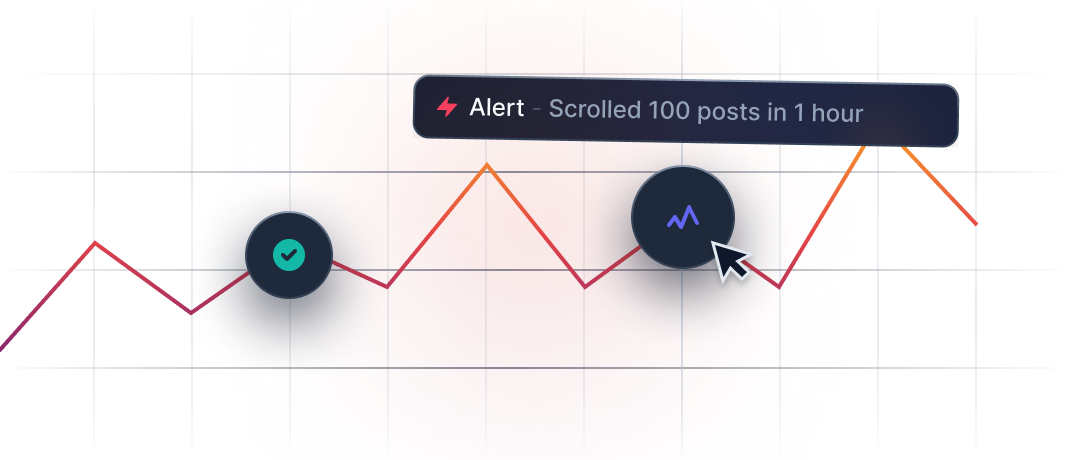
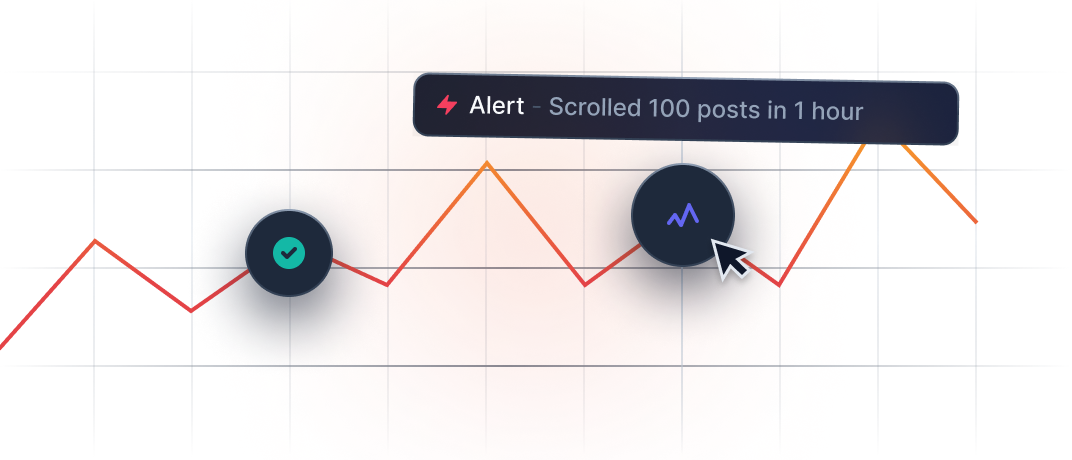
Orange Preview

diff --git a/src/components/Highlighter.tsx b/src/components/Highlighter.tsx
@@ -83,12 +83,12 @@ export function HighlighterItem({
     children,
     className = ''
 }: HighlighterItemProps) {
-    return <div className={`relative h-full bg-slate-900 rounded-3xl p-px before:absolute before:w-96 before:h-96 before:-left-48 before:-top-48 before:bg-slate-500 before:rounded-full before:opacity-0 before:pointer-events-none before:transition-opacity before:duration-500 before:translate-x-[var(--mouse-x)] before:translate-y-[var(--mouse-y)] before:hover:opacity-20 before:z-30 before:blur-[100px] after:absolute after:inset-0 after:rounded-[inherit] after:opacity-0 after:transition-opacity after:duration-500 after:[background:_radial-gradient(250px_circle_at_var(--mouse-x)_var(--mouse-y),theme(colors.primary-purple),theme(colors.primary-red),theme(colors.primary-yellow),transparent)] after:group-hover:opacity-100 after:z-10 overflow-hidden ${className}`}>{children}</div>
+    return <div className={`relative h-full bg-slate-900 rounded-3xl p-px before:absolute before:w-96 before:h-96 before:-left-48 before:-top-48 before:bg-slate-500 before:rounded-full before:opacity-0 before:pointer-events-none before:transition-opacity before:duration-500 before:translate-x-[var(--mouse-x)] before:translate-y-[var(--mouse-y)] before:hover:opacity-20 before:z-30 before:blur-[100px] after:absolute after:inset-0 after:rounded-[inherit] after:opacity-0 after:transition-opacity after:duration-500 after:[background:_radial-gradient(250px_circle_at_var(--mouse-x)_var(--mouse-y),theme(colors.primary-red),theme(colors.primary-yellow),transparent)] after:group-hover:opacity-100 after:z-10 overflow-hidden ${className}`}>{children}</div>
 }
 
 export function HighlighterItem02({
     children,
     className = ''
 }: HighlighterItemProps) {
-    return <div className={`relative h-full bg-slate-800 rounded-3xl p-px -m-px before:absolute before:w-64 before:h-64 before:-left-32 before:-top-32 before:bg-slate-500 before:rounded-full before:opacity-0 before:pointer-events-none before:transition-opacity before:duration-500 before:translate-x-[var(--mouse-x)] before:translate-y-[var(--mouse-y)] before:hover:opacity-30 before:z-30 before:blur-[64px] after:absolute after:inset-0 after:rounded-[inherit] after:opacity-0 after:transition-opacity after:duration-500 after:[background:_radial-gradient(250px_circle_at_var(--mouse-x)_var(--mouse-y),theme(colors.primary-purple),theme(colors.primary-red),theme(colors.primary-yellow),transparent)] after:group-hover:opacity-100 after:z-10 overflow-hidden ${className}`}>{children}</div>
+    return <div className={`relative h-full bg-slate-800 rounded-3xl p-px -m-px before:absolute before:w-64 before:h-64 before:-left-32 before:-top-32 before:bg-slate-500 before:rounded-full before:opacity-0 before:pointer-events-none before:transition-opacity before:duration-500 before:translate-x-[var(--mouse-x)] before:translate-y-[var(--mouse-y)] before:hover:opacity-30 before:z-30 before:blur-[64px] after:absolute after:inset-0 after:rounded-[inherit] after:opacity-0 after:transition-opacity after:duration-500 after:[background:_radial-gradient(250px_circle_at_var(--mouse-x)_var(--mouse-y),theme(colors.primary-red),theme(colors.primary-yellow),transparent)] after:group-hover:opacity-100 after:z-10 overflow-hidden ${className}`}>{children}</div>
 }

diff --git a/src/components/index/FeaturesBento.tsx b/src/components/index/FeaturesBento.tsx
@@ -95,7 +95,7 @@ export default function FeaturesBento() {
                                                     </div>
                                                 </div>
                                                 <div>
-                                                    <Link className="btn-sm text-slate-300 hover:text-white transition duration-150 ease-in-out group [background:linear-gradient(theme(colors.primary-purple),_theme(colors.primary-red),_theme(colors.primary-yellow))_padding-box,_conic-gradient(theme(colors.slate.400),_theme(colors.slate.700)_25%,_theme(colors.slate.700)_75%,_theme(colors.slate.400)_100%)_border-box] relative before:absolute before:inset-0 before:bg-slate-800/30 before:rounded-full before:pointer-events-none" to="/features">
+                                                    <Link className="btn-sm text-slate-300 hover:text-white transition duration-150 ease-in-out group [background:linear-gradient(_theme(colors.primary-red),_theme(colors.primary-yellow))_padding-box,_conic-gradient(theme(colors.slate.400),_theme(colors.slate.700)_25%,_theme(colors.slate.700)_75%,_theme(colors.slate.400)_100%)_border-box] relative before:absolute before:inset-0 before:bg-slate-800/30 before:rounded-full before:pointer-events-none" to="/features">
                                                         <span className="relative inline-flex items-center">
                                                             Learn more -&gt;
                                                         </span>
@@ -141,7 +141,7 @@ export default function FeaturesBento() {
                                         <div className="flex flex-col">
                                             {/* Radial gradient */}
                                             <div className="absolute bottom-0 translate-y-1/2 left-1/2 -translate-x-1/2 pointer-events-none -z-10 w-1/2 aspect-square" aria-hidden="true">
-                                                <div className="absolute inset-0 translate-z-0 bg-gradient-to-t from-primary-yellow/20 to-primary-purple/35 rounded-full blur-[80px]" />
+                                                <div className="absolute inset-0 translate-z-0 bg-gradient-to-t from-primary-yellow/20 to-primary-red/35 rounded-full blur-[80px]" />
                                             </div>
                                             {/* Text */}
                                             <div className="md:max-w-[480px] shrink-0 order-1 md:order-none p-6 pt-0 md:p-8">

diff --git a/src/components/index/Hero.tsx b/src/components/index/Hero.tsx
@@ -21,7 +21,7 @@ export default function Hero() {
                     </p>
                     <div className="max-w-xs mx-auto sm:max-w-none sm:inline-flex sm:justify-center space-y-4 sm:space-y-0 sm:space-x-4" data-aos="fade-down" data-aos-delay="900">
                         <div>
-                            <Link className="bg-gradient-to-r from-primary-yellow via-primary-red to-primary-purple text-white w-full font-poppins transition duration-150 ease-in-out group btn" to="/waitlist">
+                            <Link className="bg-gradient-to-r from-primary-yellow to-primary-red text-white w-full font-poppins transition duration-150 ease-in-out group btn" to="/waitlist">
                                 Join the waitlist -&gt;
                             </Link>
                         </div>

diff --git a/src/pages/NotFound.tsx b/src/pages/NotFound.tsx
@@ -19,7 +19,7 @@ export default function NoFound() {
                     </p>
                     <div className="max-w-xs mx-auto sm:max-w-none sm:inline-flex sm:justify-center space-y-4 sm:space-y-0 sm:space-x-4" data-aos="fade-down" data-aos-delay="900">
                         <div>
-                            <Link className="bg-gradient-to-r from-primary-yellow via-primary-red to-primary-purple text-white w-full font-poppins transition duration-150 ease-in-out group btn" to="/">
+                            <Link className="bg-gradient-to-r from-primary-yellow to-primary-red text-white w-full font-poppins transition duration-150 ease-in-out group btn" to="/">
                                 Back to home -&gt;
                             </Link>
                         </div>

diff --git a/src/components/index/Features.tsx b/src/components/index/Features.tsx
@@ -73,7 +73,7 @@ function FamilyContent() {
 const features = [
   {
     title: "Programable plugins",
-    css: "border-primary-purple shadow shadow-primary-purple/25",
+    css: "border-primary-yellow shadow shadow-primary-yellow/25",
     iconSrc: PluginsIcon,
     iconWidth: 19,
     iconHeight: 19,

diff --git a/src/components/Footer.tsx b/src/components/Footer.tsx
@@ -18,7 +18,7 @@ const socialLinks = [
         label: "Twitter",
         iconSrc: "",
         to: "https://x.com/a",
-        css: "text-primary-purple/85 hover:text-primary-purple",
+        css: "text-primary-red/85 hover:text-primary-red",
     }
 ]
 
